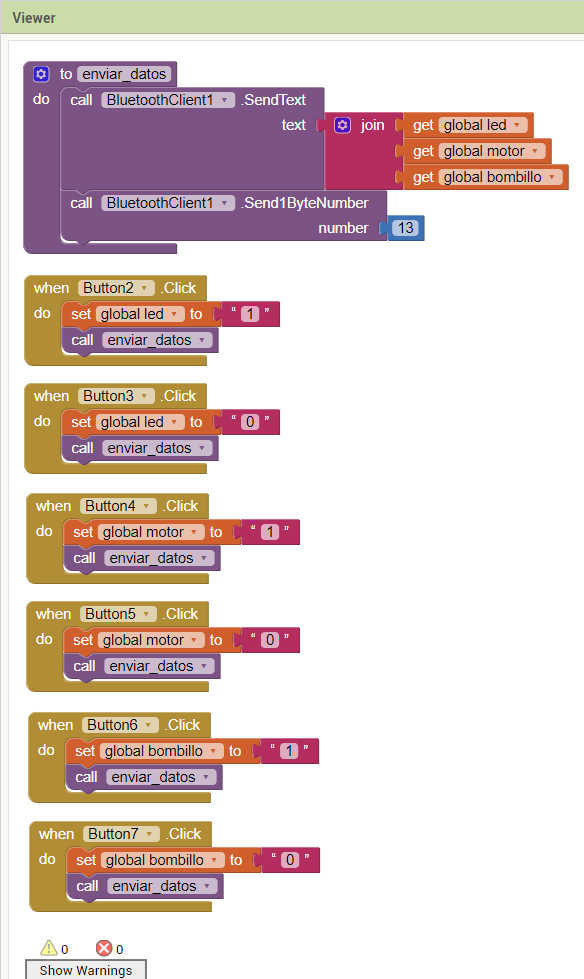
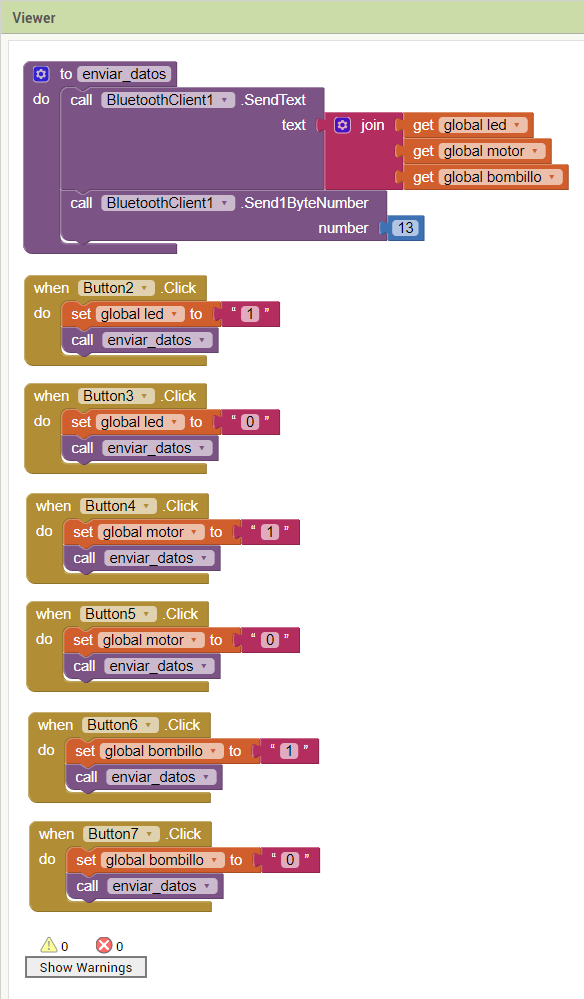
702

Changed region(s): [[0.0308, 0.0919, 0.9863, 1.0], [0.0308, 0.0306, 0.524, 0.1532]]

diff --git a/Microcontroladores/1 - PIC/5 - SENA-FVCC/11.2.4 Bluetooth a micro_bit.html b/Microcontroladores/1 - PIC/5 - SENA-FVCC/11.2.4 Bluetooth a micro_bit.html
@@ -153,7 +153,7 @@ p.MsoNormal1 {	margin-top: 0cm;
 <p class="MsoNormal"><span class="MsoNormal" style="margin-bottom:.0001pt;text-align:justify;line-height:normal;background:white;"><img src="../img/Bluetooth a micro_bit_1.png" width="373" height="569" alt=""/></span></p>
 <p class="MsoNormal"><img src="../img/Bluetooth a micro_bit_2.png" width="1000" height="545" alt=""/></p>
 <p class="MsoNormal"><img src="../img/Bluetooth a micro_bit_3.png" width="679" height="892" alt=""/></p>
-<p class="MsoNormal"><img src="../img/Bluetooth a micro_bit_4.png" width="584" height="979" alt=""/></p>
+<p class="MsoNormal"><img src="../img/Bluetooth a micro_bit_4.png" width="584" height="999" alt=""/></p>
 <p class="MsoNormal"><img src="../img/Bluetooth a micro_bit_5.png" width="615" height="1001" alt=""/></p>
 <p class="MsoNormal"><img src="../img/Bluetooth a micro_bit_6.png" width="448" height="600" alt=""/></p>
 </body>
